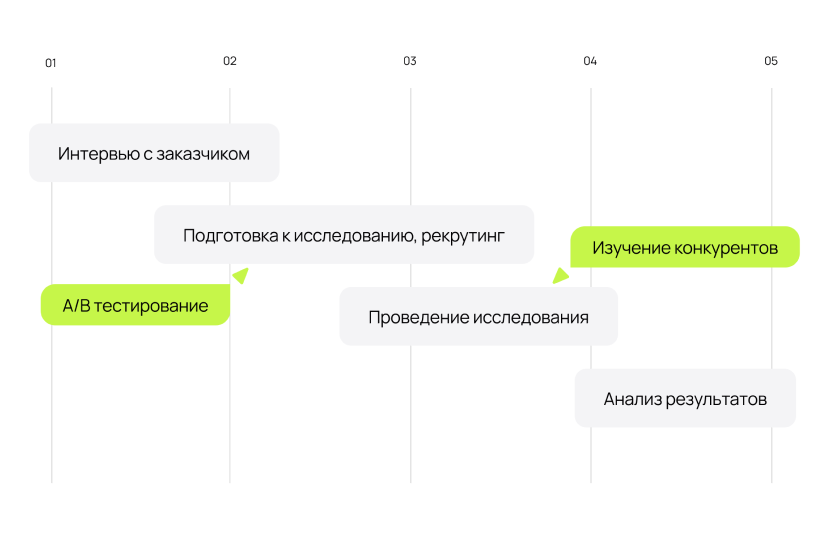
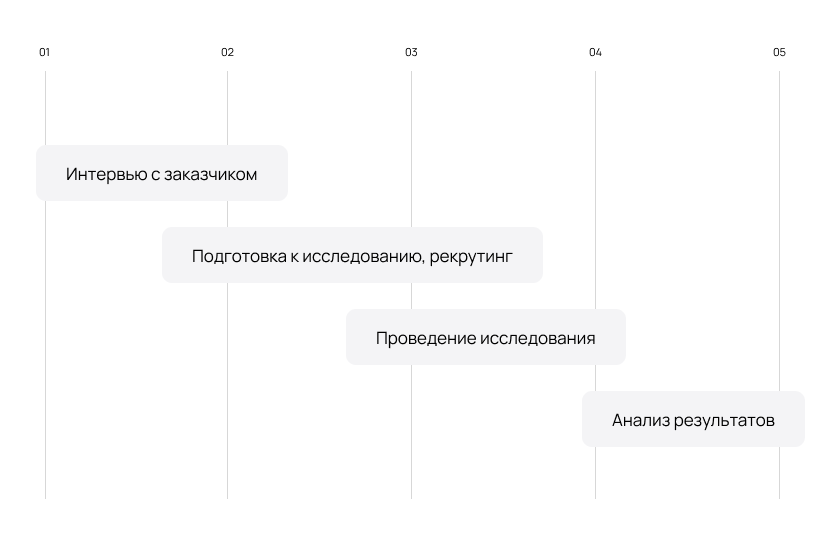
fix: bugs

diff --git a/design/src/scss/stagesSection/_stagesSection.scss b/design/src/scss/stagesSection/_stagesSection.scss
@@ -72,16 +72,19 @@
   }
 
   &_itemImageWrapper {
+    position: relative;
     grid-area: image;
     border-radius: clamp(20px, 2.04vw, 40px);
     overflow: hidden;
     color: #352959;
     flex: 1;
     height: auto;
+    aspect-ratio: 1.57;
 
     & > img {
       width: 100%;
       height: 100%;
+      object-fit: fill;
     }
   }
 
@@ -105,6 +108,188 @@
   &_itemNumberColor4 {
     color: #403759;
   }
+
+  &_pointer {
+    display: none;
+    position: absolute;
+    width: fit-content;
+    padding: clamp(6px, 0.56vw, 11px) clamp(10px, 1.02vw, 20px);
+    font-size: clamp(0.775rem, 0.87vw, 1.0693rem);
+    color: #010002;
+    border-radius: clamp(8px, 0.71vw, 14px);
+    line-height: 105%;
+    background-color: #c6f649;
+
+    &::before {
+      content: '';
+      display: block;
+      height: clamp(10px, 0.82vw, 16px);
+      aspect-ratio: 1;
+      background-color: inherit;
+      position: absolute;
+      border-radius: 4px;
+    }
+  }
+
+  &__pointerLT {
+    border-top-left-radius: 0;
+
+    &::before {
+      top: 0;
+      left: 0;
+      transform: translate(-100%, -100%);
+      clip-path: polygon(0% 0%, 40% 100%, 100% 43%);
+    }
+  }
+
+  &__pointerRT {
+    border-top-right-radius: 0;
+
+    &::before {
+      right: 0;
+      top: 0;
+      clip-path: polygon(100% 0%, 60% 100%, 0% 43%);
+      transform: translate(100%, -100%);
+    }
+  }
+
+  &__pointerRB {
+    border-bottom-right-radius: 0;
+
+    &::before {
+      bottom: 0;
+      right: 0;
+      transform: translate(100%, 100%);
+      clip-path: polygon(60% 0%, 100% 100%, 0% 57%);
+    }
+  }
+
+  &__pointerLB {
+    border-bottom-left-radius: 0;
+
+    &::before {
+      bottom: 0;
+      left: 0;
+      transform: translate(-100%, 100%);
+      clip-path: polygon(0% 100%, 40% 0%, 100% 57%);
+    }
+  }
+
+  &__pointerBg2 {
+    background-color: #94c6ff;
+  }
+
+  &__pointerBg3 {
+    background-color: #ffea6f;
+  }
+
+  &__pointerBg4 {
+    background-color: #b8b0ff;
+  }
+
+  &__pointerPosition1 {
+    animation: movePointer1 2s 0s ease;
+    left: 5%;
+    bottom: 36%;
+  }
+
+  &__pointerPosition2 {
+    animation: movePointer2 2s 0s ease;
+    right: 2%;
+    bottom: 46%;
+  }
+
+  &__pointerPosition3 {
+    animation: movePointer3 2s 0s ease;
+    left: 28%;
+    bottom: 12%;
+  }
+
+  &__pointerPosition4 {
+    animation: movePointer4 2s 0s ease;
+    right: 19%;
+    top: 34%;
+  }
+
+  &__pointerPosition5 {
+    animation: movePointer5 2s 0s ease;
+    right: 54%;
+    top: 37%;
+  }
+
+  &__pointerPosition6 {
+    animation: movePointer6 2s 0s ease;
+    left: 13%;
+    top: 53%;
+  }
+
+  &__pointerPosition7 {
+    animation: movePointer7 2s 0s ease;
+    left: 34%;
+    top: 30%;
+  }
+
+  &__pointerPosition8 {
+    animation: movePointer8 2s 0s ease;
+    left: 48%;
+    bottom: 4%;
+  }
+
+  &__pointerPosition9 {
+    animation: movePointer9 2s 0s ease;
+    right: 3%;
+    top: 47%;
+  }
+
+  @mixin movePointer($x, $y) {
+    from {
+      transform: translate($x, $y);
+    }
+    to {
+      transform: translate(0%, 0%);
+    }
+  }
+
+  .swiper-slide-active {
+    .stagesSection_pointer {
+      display: block;
+    }
+  }
+  @keyframes movePointer1 {
+    @include movePointer(-10%, 100%);
+  }
+
+  @keyframes movePointer2 {
+    @include movePointer(7%, -80%);
+  }
+
+  @keyframes movePointer3 {
+    @include movePointer(25%, 35%);
+  }
+
+  @keyframes movePointer4 {
+    @include movePointer(-20%, 30%);
+  }
+
+  @keyframes movePointer5 {
+    @include movePointer(-10%, 150%);
+  }
+
+  @keyframes movePointer6 {
+    @include movePointer(17%, 50%);
+  }
+
+  @keyframes movePointer7 {
+    @include movePointer(-10%, 50%);
+  }
+
+  @keyframes movePointer8 {
+    @include movePointer(-18%, 30%);
+  }
+
+  @keyframes movePointer9 {
+    @include movePointer(15%, 50%);
+  }
 }
 
 @media (max-width: $breakpoints-md) {
@@ -112,6 +297,7 @@
     padding: 0;
 
     &_item {
+      padding-right: 20px;
       align-items: stretch;
       grid-template-columns: 1fr;
       grid-template-rows: auto auto 1fr;
@@ -128,6 +314,48 @@
 
     &_itemContent {
       max-width: 100%;
+    }
+
+    &__pointerPosition1 {
+      bottom: 38%;
+    }
+
+    &__pointerPosition2 {
+      right: 3%;
+    }
+
+    &__pointerPosition3 {
+      bottom: 15%;
+    }
+
+    &__pointerPosition8 {
+      left: 50%;
+      bottom: 4%;
+    }
+  }
+}
+
+@media (max-width: $breakpoints-sm) {
+  .stagesSection {
+    &_pointer {
+      font-size: 0.5rem;
+    }
+
+    &__pointerPosition1 {
+      bottom: 33%;
+    }
+
+    &__pointerPosition2 {
+      right: 1%;
+    }
+
+    &__pointerPosition3 {
+      bottom: 10%;
+    }
+
+    &__pointerPosition8 {
+      left: 43%;
+      bottom: 1%;
     }
   }
 }

diff --git a/design/src/scss/processSection/_processSection.scss b/design/src/scss/processSection/_processSection.scss
@@ -150,23 +150,23 @@
     }
 
     .processSection_firstCardSecondLineEl {
-      animation: 2s animation2 0s ease forwards;
+      animation: 1.5s animation2 0s ease forwards;
     }
   }
 
   &__firstCardItemActiveSecond {
-    animation: 2s animation3 0s ease;
+    animation: 1.5s animation3 0s ease;
 
     .processSection_firstCardItemIconWrapperBg1 {
-      animation: 2s animation4 0s ease forwards;
+      animation: 1.5s animation4 0s ease forwards;
     }
 
     .processSection_firstCardItemFirstLineEl {
-      animation: 2s animation4 0s ease forwards;
+      animation: 1.5s animation4 0s ease forwards;
     }
 
     .processSection_firstCardSecondLineEl {
-      animation: 2s animation4 0s ease forwards;
+      animation: 1.5s animation4 0s ease forwards;
     }
   }
 
@@ -235,6 +235,8 @@
     justify-content: flex-end;
     width: 100%;
     height: auto;
+    opacity: 0;
+    transition: all 2s ease-in-out;
 
     & > img {
       width: 70%;

diff --git a/design/src/js/animation.js b/design/src/js/animation.js
@@ -49,11 +49,24 @@ window.addEventListener(
   createObserver(animateFirstProcess, processes[0]),
 );
 
+let acceptions = document.querySelectorAll(
+  '.processSection_secondCardImageWrapper',
+);
+
+const showAcception = () => {
+  for (let i = 0; i < acceptions.length; i++) {
+    acceptions[i].style.transitionDelay = `${1.8 + 0.5 * i}s`;
+    acceptions[i].style.opacity = '1';
+  }
+};
+
 let orders = document.querySelectorAll('.processSection_thirdCardImageWrapper');
+
+window.addEventListener('load', createObserver(showAcception, acceptions[0]));
 
 const showOrder = () => {
   for (let i = orders.length - 1; i >= 0; i--) {
-    orders[i].style.transitionDelay = `${2.8 + 0.6 * (orders.length - i - 1)}s`;
+    orders[i].style.transitionDelay = `${3.3 + 0.5 * (orders.length - i - 1)}s`;
     orders[i].style.opacity = '1';
   }
 };

diff --git a/design/src/js/slider.js b/design/src/js/slider.js
@@ -7434,14 +7434,13 @@ document.addEventListener('DOMContentLoaded', () => {
   customSwiper.on('click', () => {
     let clickedIndex = customSwiper.clickedIndex;
     let activeIndex = customSwiper.activeIndex;
-    if (clickedIndex> activeIndex) { 
+    if (clickedIndex > activeIndex) {
       customSwiper.slideNext(300);
     }
 
-    if (clickedIndex< activeIndex) { 
+    if (clickedIndex < activeIndex) {
       customSwiper.slidePrev(300);
     }
-    
   });
 });
 

diff --git a/design/src/scss/feedbackSection/_feedbackSection.scss b/design/src/scss/feedbackSection/_feedbackSection.scss
@@ -110,9 +110,15 @@
     padding-bottom: clamp(22px, 1.83vw, 36px);
     outline: none;
     border: none;
+    transition: all 300ms ease;
+
+    &:active,
+    &:hover {
+      box-shadow: 0px -18px 15px 0px #c6f64929;
+    }
 
     &:active {
-      box-shadow: 0px -18px 15px 0px #c6f64929;
+      transform: scale(1.05);
     }
   }
 }

diff --git a/design/src/scss/main.scss b/design/src/scss/main.scss
@@ -36,7 +36,7 @@ body::-webkit-scrollbar {
 
 .container {
   max-width: $max-width;
-  padding: clamp(10px, 1.02vw, 20px);
+  padding: 0 clamp(10px, 1.02vw, 20px);
   width: 100%;
   margin: 0 auto;
 }
